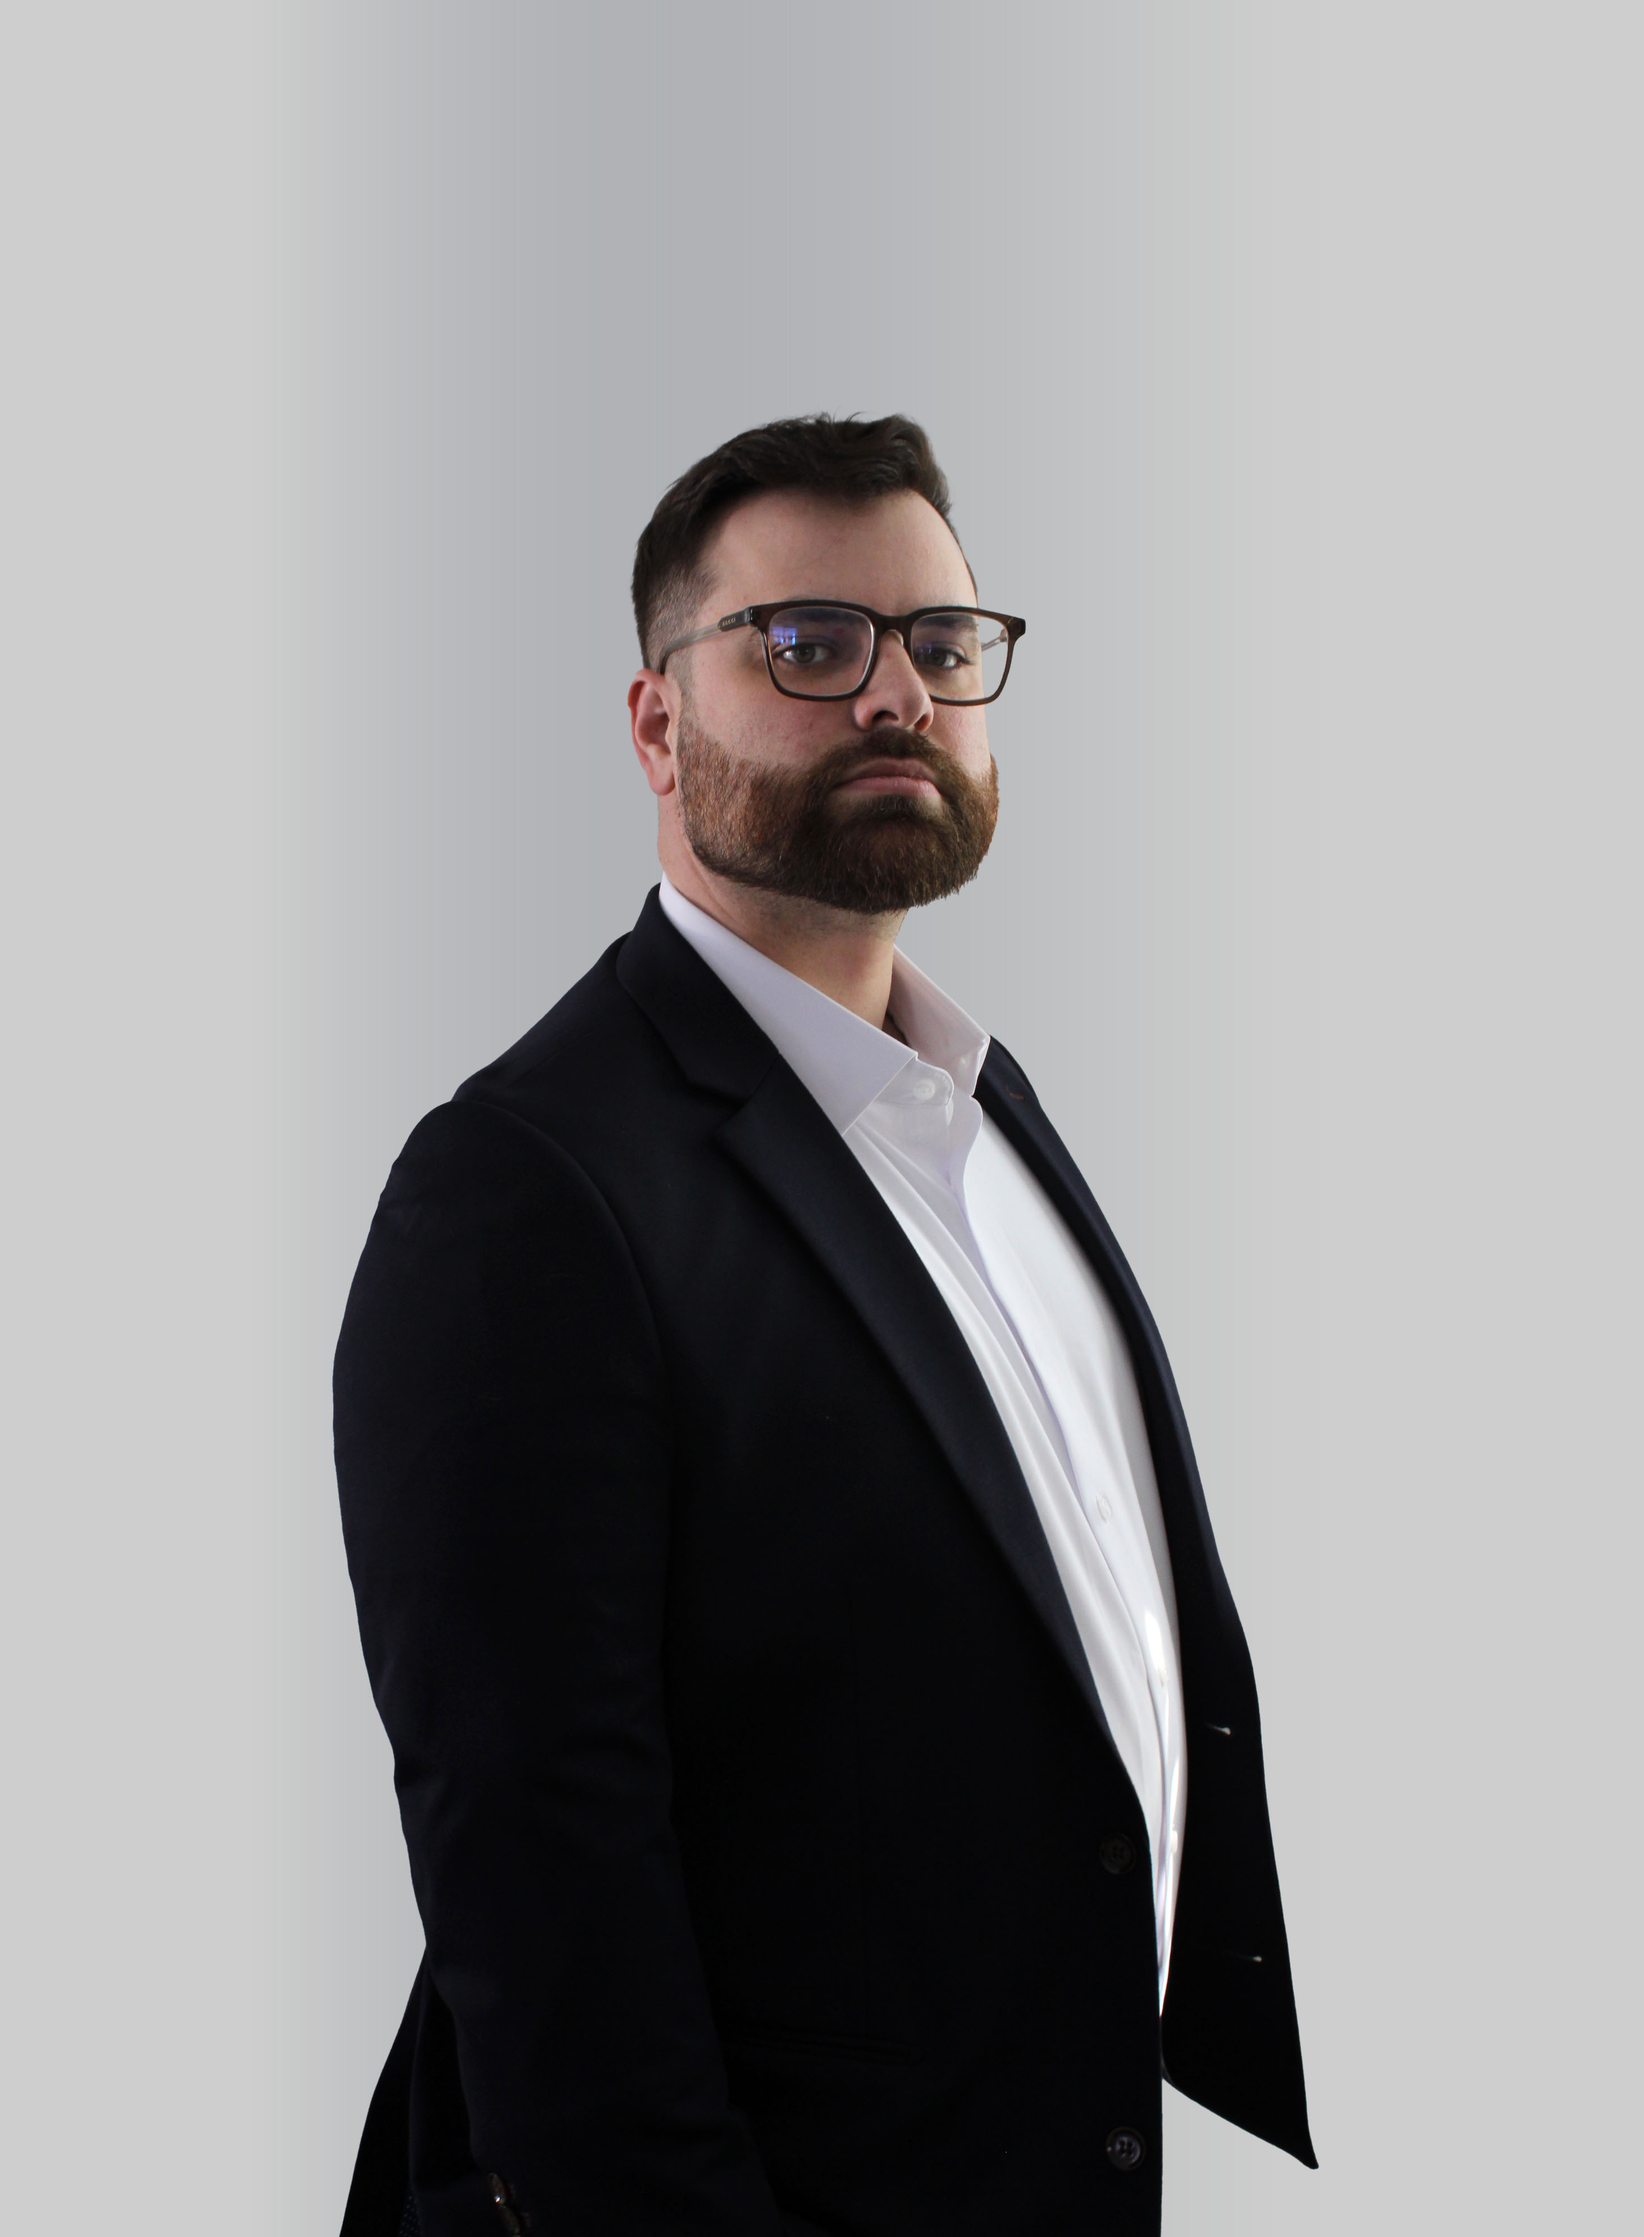
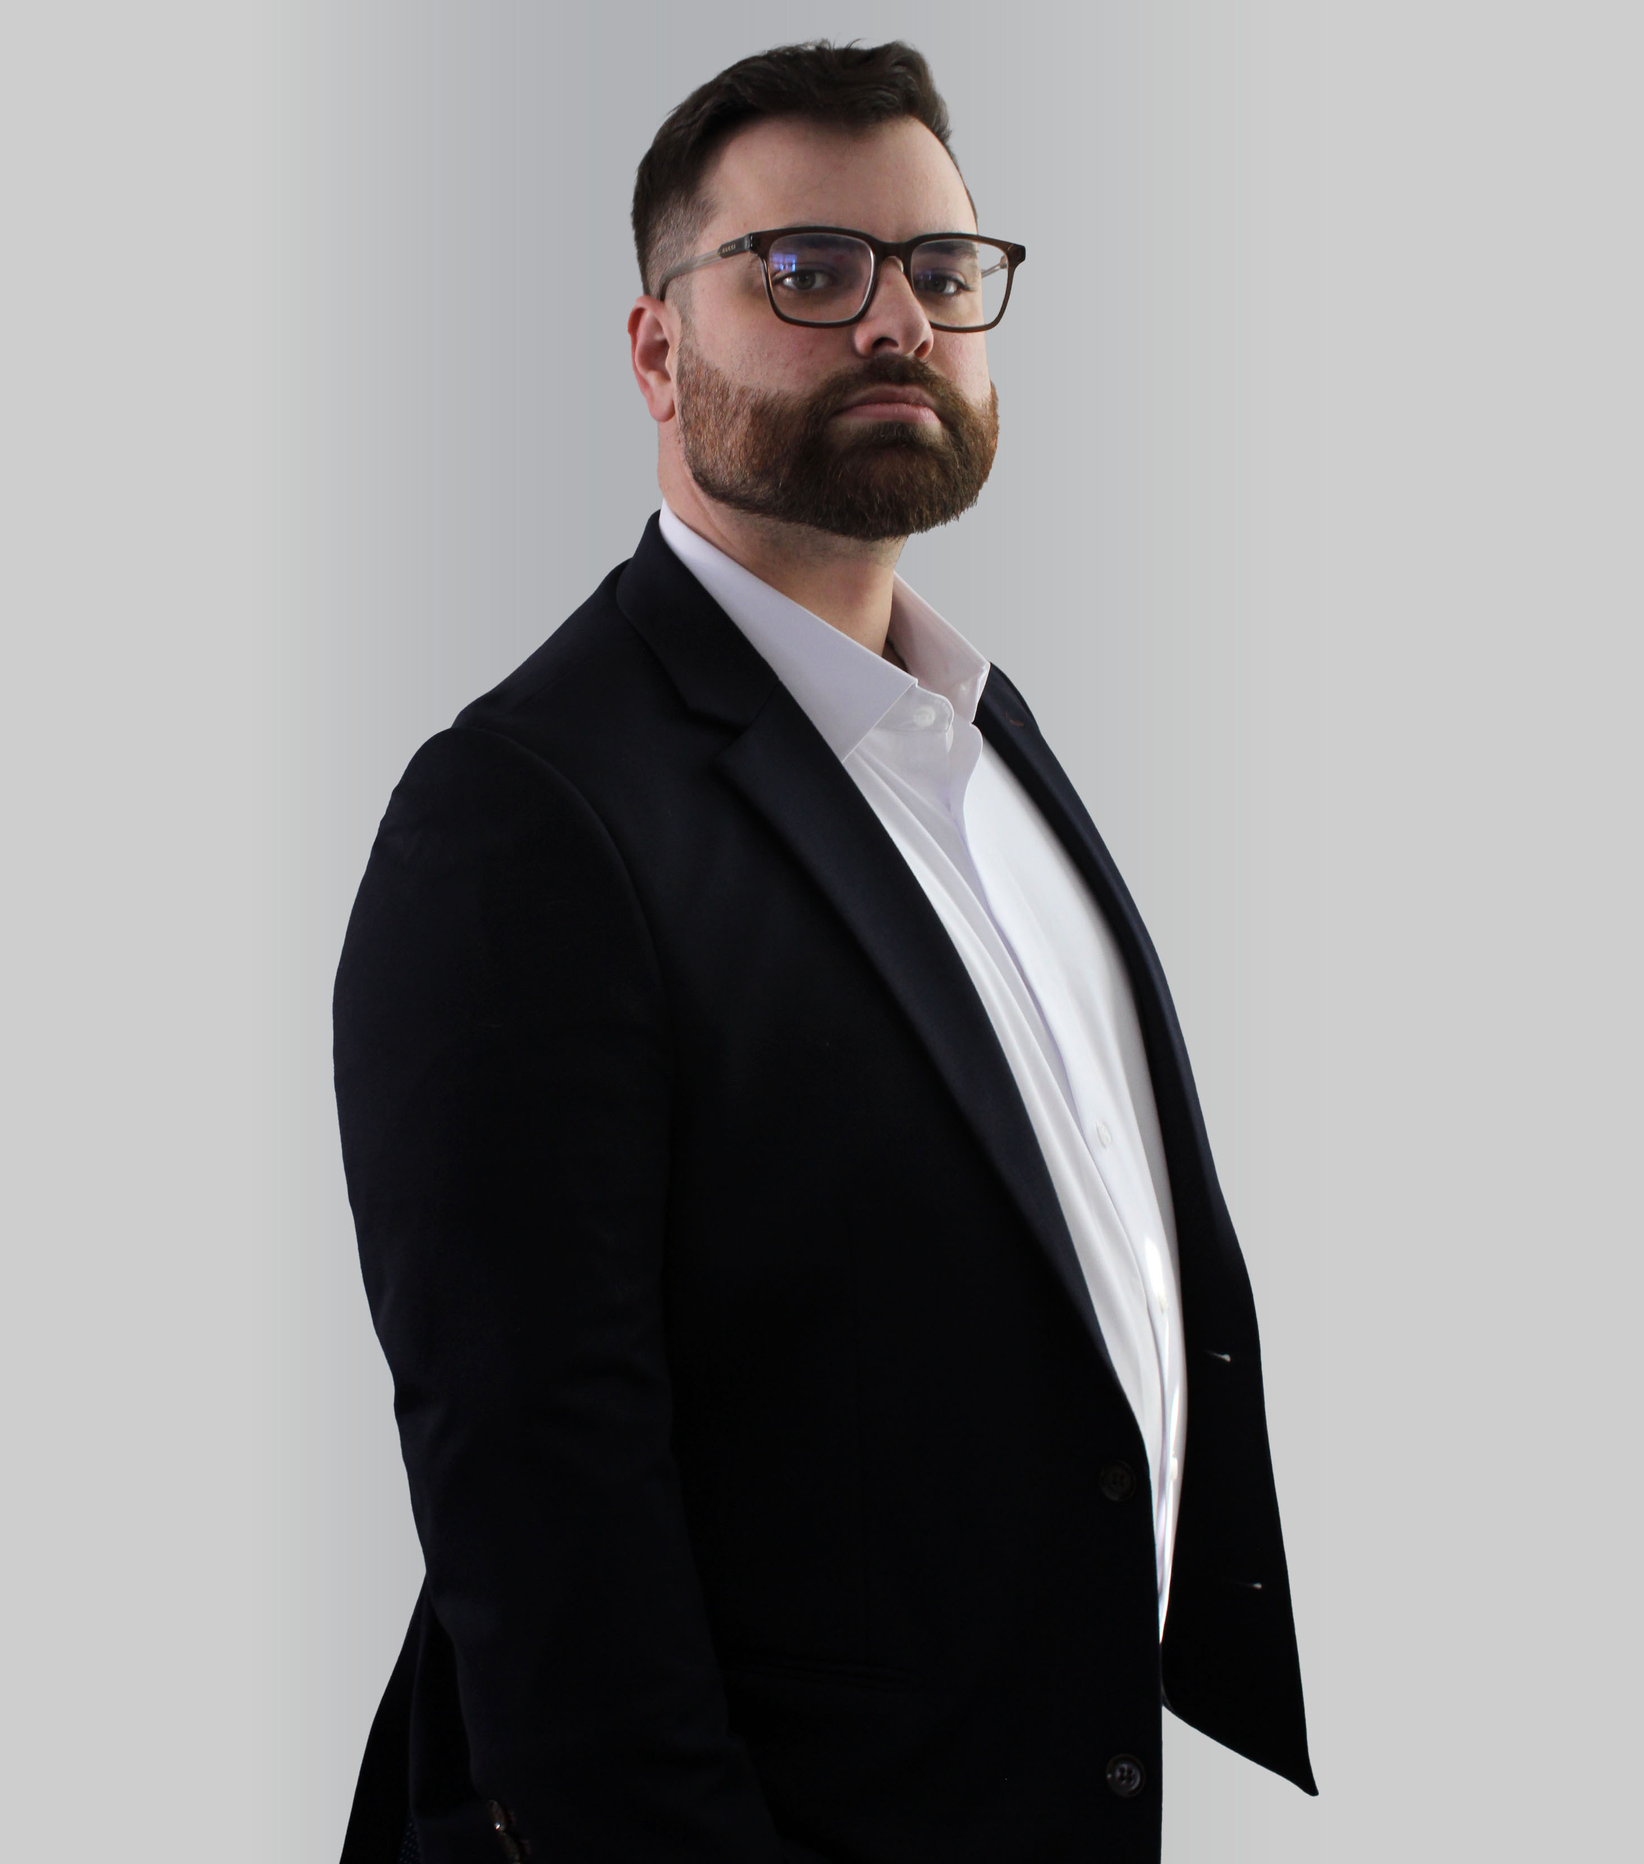
add cloudinary for image optimization

Changed region(s): [[0.1865, 0.0, 0.8081, 0.962], [0.2176, 0.8069, 0.2797, 0.962], [0.4973, 0.5586, 0.5283, 0.5896]]

diff --git a/data/clients.ts b/data/clients.ts
@@ -16,7 +16,7 @@ export const clients: Client[] = [
     id: "1",
     name: "Johanna Medranda",
     slug: "johanna-medranda",
-    image: "/clients/johanna-medranda.png",
+    image: "johanna-medranda-1",
     website: "https://johannamedranda.com",
     description:
       "Johanna is a Detroit-based comedian making a splash in the comedy world on a national level. She needed a website that matched her bold stage persona and could grow alongside her rising career.",
@@ -38,7 +38,7 @@ export const clients: Client[] = [
     id: "2",
     name: "Motor City Comedy Festival",
     slug: "motor-city-comedy-festival",
-    image: "/clients/mccf.jpg",
+    image: "mccf",
     website: "https://motorcitycomedyfestival.com",
     description:
       "Held in the booming city of Detroit, the Motor City Comedy Festival is the longest tenured comedy festival in the state of Michigan. We built them a brand new website and helped photograph two years of the festival.",
@@ -59,7 +59,7 @@ export const clients: Client[] = [
     id: "3",
     name: "Connor Meade",
     slug: "connor-meade",
-    image: "/clients/connor-meade.png",
+    image: "connor-meade",
     website: "https://connormeade.com",
     description:
       "Connor Meade is a Metro Detroit-based turned Brooklyn-based stand-up comedian. We built her website with a dynamic show spreadsheet that Connor can easily keep updated.",
@@ -70,14 +70,14 @@ export const clients: Client[] = [
         "Google API",
         "Vercel"
     ],
-    featured: true,
+    featured: false,
     category: "Performer",
   },
   {
     id: "4",
     name: "Priscilla Hankins",
     slug: "priscilla-hankins",
-    image: "/clients/priscilla-hankins.png",
+    image: "priscilla-hankins",
     website: "https://priscillahankins.com",
     description:
       "Priscilla Hankins is an End-of-Life Doula based in the Detroit area. We created a warm, professional website redesign that speaks to her compassionate practice.",
@@ -94,7 +94,7 @@ export const clients: Client[] = [
     id: "5",
     name: "Alice Duhon",
     slug: "alice-duhon",
-    image: "/clients/alice-duhon.png",
+    image: "alice-duhon",
     website: "https://aliceduhon.com",
     description:
       "Alice Duhon is a Chicago-based stand-up comedian, dancer, and retired theater kid. We handle her website.",
@@ -111,7 +111,7 @@ export const clients: Client[] = [
     id: "6",
     name: "Nic Gumina",
     slug: "nic-gumina",
-    image: "/clients/nic-gumina.jpg",
+    image: "nic-gumina-1",
     website: "https://nicgumina.com",
     description:
       "Nic Gumina is a Cloud Security Consultant who needed a professional website and a high-quality headshot to match.",
@@ -125,7 +125,7 @@ export const clients: Client[] = [
         "Framer",
         "Adobe Photoshop"
     ],
-    featured: false,
+    featured: true,
     category: "Professional",
   },
 ];

diff --git a/app/clients/page.tsx b/app/clients/page.tsx
@@ -5,6 +5,7 @@ import { motion, AnimatePresence } from "framer-motion";
 import AnimatedSection from "@/components/AnimatedSection";
 import { getAllClients } from "@/data/clients";
 import { ExternalLink, Monitor, Share2, Camera, Star } from "lucide-react";
+import { CldImage } from "next-cloudinary";
 
 const allClients = getAllClients();
 const categories = ["All", ...Array.from(new Set(allClients.map((c) => c.category)))];
@@ -113,10 +114,12 @@ export default function ClientsPage() {
                     <div className="relative overflow-hidden aspect-[4/3] bg-chrome-gray">
                       {client.image ? (
                         // eslint-disable-next-line @next/next/no-img-element
-                        <img
+                        <CldImage
                           src={client.image}
                           alt={client.name}
-                          className="w-full h-full object-cover"
+                          width={800}
+                          height={600}
+                          className="w-full h-full object-cover object-top"
                         />
                       ) : (
                         <div className="w-full h-full flex items-center justify-center bg-chrome-gray">

diff --git a/components/ClientCard.tsx b/components/ClientCard.tsx
@@ -2,6 +2,7 @@
 
 import { motion } from "framer-motion";
 import { ExternalLink, Monitor, Camera, Share2 } from "lucide-react";
+import { CldImage } from "next-cloudinary";
 import type { Client } from "@/data/clients";
 
 const serviceIcons: Record<string, React.ReactNode> = {
@@ -33,11 +34,13 @@ export default function ClientCard({
       {/* Image */}
       <div className="relative h-52 bg-chrome-gray overflow-hidden">
         {client.image ? (
-          // eslint-disable-next-line @next/next/no-img-element
-          <img
+          <CldImage
             src={client.image}
             alt={client.name}
-            className="w-full h-full object-cover group-hover:scale-105 transition-transform duration-700"
+            fill
+            sizes="(max-width: 768px) 100vw, (max-width: 1200px) 50vw, 33vw"
+            className="object-cover object-top group-hover:scale-105 transition-transform duration-700"
+            style={{ position: 'absolute' }}
           />
         ) : (
           <div className="w-full h-full flex items-center justify-center bg-chrome-gray">
